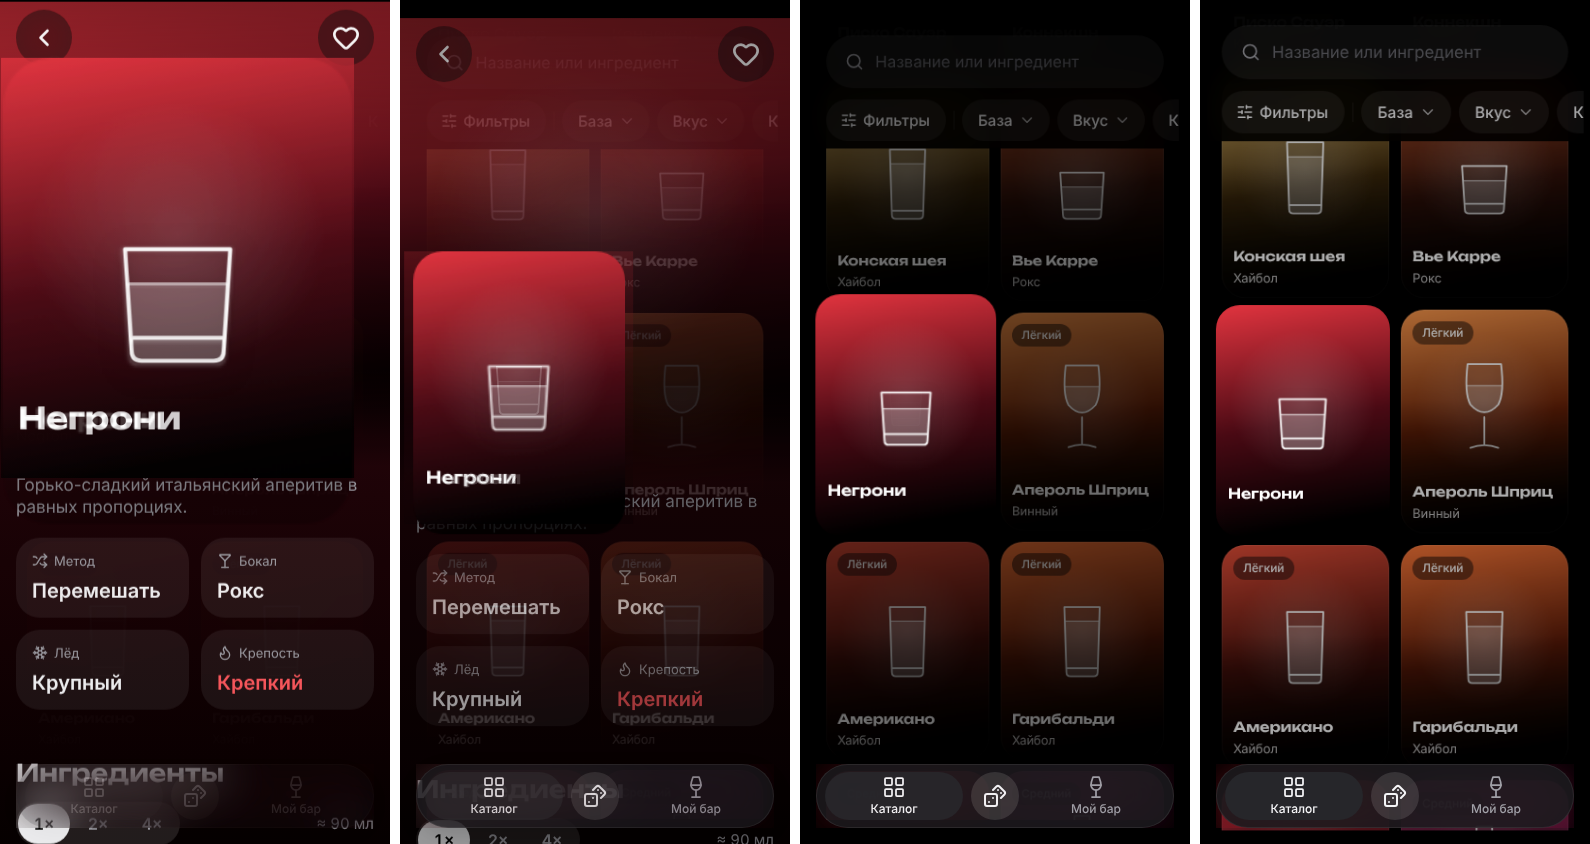
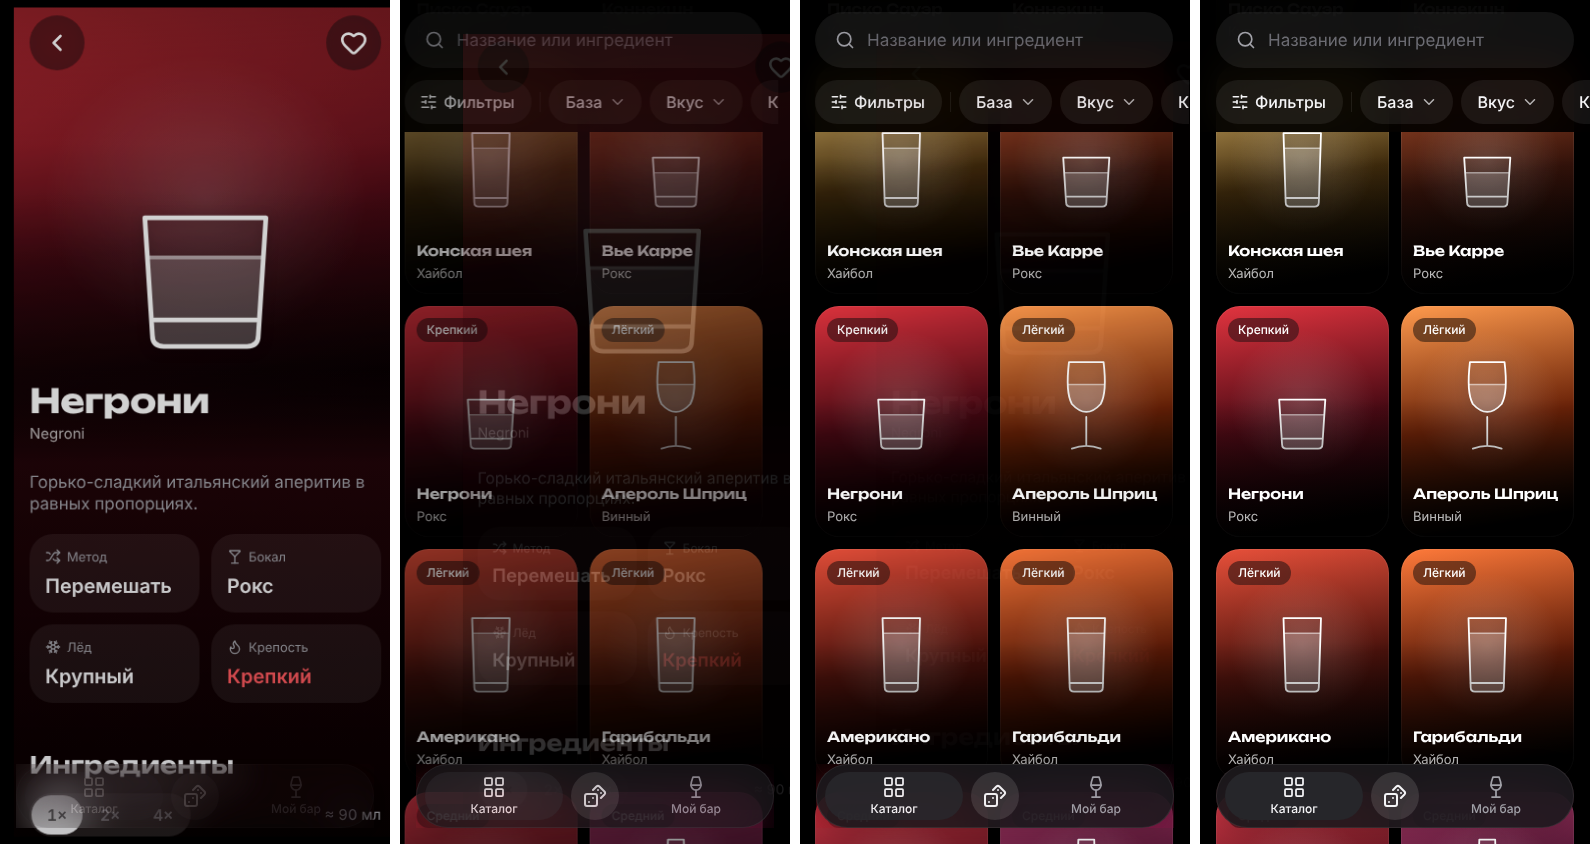
Карточка открывается обычным переходом вглубь, как все страницы
Claude-Session: https://claude.ai/code/session_01CTSLijoM8Di1TL7d1o52Nz

diff --git a/src/components/ui/CocktailCard.tsx b/src/components/ui/CocktailCard.tsx
@@ -1,12 +1,10 @@
 import type { CSSProperties } from 'react';
-import { Link, useViewTransitionState } from 'react-router';
+import { Link } from 'react-router';
 import { Heart } from 'lucide-react';
 import type { Cocktail } from '../../types/cocktail';
 import { glassLabel, strengthLabel } from '../../lib/cocktails';
 import { cn } from '../../lib/cn';
 import { GlassIllustration } from './GlassIllustration';
-import { useIsGhost } from '../SwipeBack';
-import { setNav } from '../../lib/motion';
 
 export function coverStyle(cocktail: Pick<Cocktail, 'cover'>): CSSProperties {
   return { '--cover-from': cocktail.cover.from, '--cover-to': cocktail.cover.to } as CSSProperties;
@@ -33,28 +31,19 @@ type Props = {
 /** Карточка каталога 3:4: градиент напитка, силуэт бокала, плашка крепости (словом), название и бокал поверх скрима */
 export function CocktailCard({ cocktail, pressed, className, available, favorite, compact, large, replace, tabIndex }: Props) {
   const to = `/cocktail/${cocktail.id}`;
-  // общий элемент: эта карточка вырастает в обложку рецепта (и садится обратно) — имя только на время перехода к ней;
-  // из шторки «Мне повезёт» (replace) — без перехода: та же карточка может быть и в сетке под шторкой
-  const transitioning = useViewTransitionState(to);
-  const ghost = useIsGhost();
-  const shared = transitioning && !replace && !ghost;
-  // «раскрытие»: фон, бокал и название летят каждый сам по себе — без растянутых плашек и текста
-  const vt = (name: string) => (shared ? { viewTransitionName: name } : undefined);
+  // обычный переход вглубь, как у всех страниц; из шторки «Мне повезёт» (replace) — без перехода
   return (
     <Link
       to={to}
       viewTransition={!replace}
-      onClick={replace ? undefined : () => setNav('expand')}
       replace={replace}
       tabIndex={tabIndex}
       data-pressed={pressed || undefined}
       className={cn('vt-card pressable-scale cover-gradient block aspect-card overflow-hidden rounded-tile outline-1 -outline-offset-1 outline-border', className)}
-      style={{ ...coverStyle(cocktail), ...(shared ? {} : { '--vt': `card-${cocktail.id}` }) } as CSSProperties}
+      style={{ ...coverStyle(cocktail), '--vt': `card-${cocktail.id}` } as CSSProperties}
     >
-      {/* фон для «раскрытия» — только градиент, без плашки и подписей */}
-      {shared && <span className="cover-gradient absolute inset-0 rounded-[inherit]" style={vt('cover')} aria-hidden />}
       {/* compact (лента 140): бокал ниже ростом — двухстрочное название не наезжает */}
-      <GlassIllustration shape={cocktail.glass} style={vt('cover-glass')} className={cn('absolute inset-x-0 mx-auto', compact ? 'top-5 h-2/5' : 'top-9 h-1/2')} />
+      <GlassIllustration shape={cocktail.glass} className={cn('absolute inset-x-0 mx-auto', compact ? 'top-5 h-2/5' : 'top-9 h-1/2')} />
       <span className="scrim-bottom absolute inset-0" aria-hidden />
       {/* крепость — словом, как в фильтре «Крепость»; бокал — под названием */}
       {!compact && (
@@ -72,7 +61,7 @@ export function CocktailCard({ cocktail, pressed, className, available, favorite
       )}
       <span className={cn('absolute', large ? 'inset-x-5 bottom-5' : 'inset-x-3 bottom-3')}>
         {/* Unbounded 14 (`text-card`): название не спорит с обложкой; длинное слово — перенос, а не обрезка */}
-        <span style={vt('cover-title')} className={cn('line-clamp-2 block font-display wrap-break-word hyphens-auto text-on-media', large ? 'text-section' : 'text-card')}>{cocktail.name}</span>
+        <span className={cn('line-clamp-2 block font-display wrap-break-word hyphens-auto text-on-media', large ? 'text-section' : 'text-card')}>{cocktail.name}</span>
         {/* «можно приготовить» — статусом в строке бокала (язык v2: информер, не значок) */}
         <span className={cn('mt-1 block truncate text-on-media-2', large ? 'text-subhead' : 'text-footnote')}>
           {glassLabel(cocktail.glass)}

diff --git a/src/styles/index.css b/src/styles/index.css
@@ -424,8 +424,6 @@ html[data-platform='android'] {
   --ease-sheet-out: cubic-bezier(0.3, 0, 0.8, 0.15);
   --dur-toast-out: 160ms;
   --dur-grid: 250ms;
-  --dur-shared: 450ms;
-  --ease-expand: cubic-bezier(0.32, 0.72, 0, 1);
 }
 html[data-platform='ios'] {
   --dur-push: 400ms;
@@ -437,8 +435,6 @@ html[data-platform='ios'] {
   --ease-sheet-out: cubic-bezier(0.32, 0, 0.67, 0);
   --dur-toast-out: 160ms;
   --dur-grid: 300ms;
-  --dur-shared: 500ms;
-  --ease-expand: cubic-bezier(0.32, 0.72, 0, 1);
 }
 
 /* корень и «резина»: навбар и таб-бар не отрываются при оттягивании; на Android — без pull-to-refresh */
@@ -572,71 +568,6 @@ html[data-nav='grid'] .vt-card {
 }
 html[data-nav='grid']::view-transition-group(*) {
   animation-duration: var(--dur-grid);
-}
-
-/* --- карточка ↔ рецепт («раскрытие», как App Store): каталог отступает вглубь и темнеет, фон обложки,
-   бокал и название летят каждый сам по себе (без растянутых плашек и текста), остальной рецепт проявляется снизу.
-   Назад — то же в обратную сторону. Одинаково на iOS и Android. --- */
-@keyframes recede {
-  to {
-    transform: scale(0.94);
-    opacity: 0.4;
-  }
-}
-@keyframes rise-in {
-  0%,
-  30% {
-    opacity: 0;
-    transform: translateY(48px);
-  }
-}
-@keyframes sink-out {
-  to {
-    opacity: 0;
-    transform: translateY(48px);
-  }
-}
-html[data-nav='expand']::view-transition-old(root) {
-  animation: recede var(--dur-shared) var(--ease-expand) both;
-}
-html[data-nav='expand']::view-transition-new(root) {
-  animation: rise-in var(--dur-shared) var(--ease-expand) both;
-}
-html[data-nav='collapse']::view-transition-old(root) {
-  animation: sink-out calc(var(--dur-shared) * 0.5) ease-in both;
-  z-index: 1;
-}
-html[data-nav='collapse']::view-transition-new(root) {
-  animation: recede var(--dur-shared) var(--ease-expand) reverse both;
-}
-::view-transition-group(cover),
-::view-transition-group(cover-glass),
-::view-transition-group(cover-title) {
-  animation-duration: var(--dur-shared);
-  animation-timing-function: var(--ease-expand);
-  z-index: 2;
-}
-/* фон: градиенты одного напитка — быстрая смена картинки незаметна, движение несёт рамка */
-::view-transition-old(cover),
-::view-transition-new(cover) {
-  height: 100%;
-  object-fit: cover;
-  object-position: top;
-  animation-duration: calc(var(--dur-shared) * 0.35);
-  animation-timing-function: linear;
-}
-/* бокал — один и тот же силуэт: вписываем, не растягиваем */
-::view-transition-old(cover-glass),
-::view-transition-new(cover-glass) {
-  height: 100%;
-  object-fit: contain;
-}
-/* название: Unbounded растёт от 14 до 40 — у левого нижнего края */
-::view-transition-old(cover-title),
-::view-transition-new(cover-title) {
-  height: 100%;
-  object-fit: contain;
-  object-position: left bottom;
 }
 
 /* --- таб-бар стоит на месте при смене вкладок --- */

diff --git a/src/components/ui/CocktailHero.tsx b/src/components/ui/CocktailHero.tsx
@@ -1,6 +1,5 @@
 import type { ReactNode, RefObject } from 'react';
 import { ChevronLeft } from 'lucide-react';
-import { useViewTransitionState } from 'react-router';
 import type { Cocktail } from '../../types/cocktail';
 import { cn } from '../../lib/cn';
 import { IconButton } from './Button';
@@ -25,19 +24,11 @@ type Props = {
  * Колонка: бокал занимает всё место над названием — длинное название уменьшает бокал, а не наезжает на него.
  */
 export function CocktailHero({ cocktail, onBack, action, titleRef, height = 'screen', glassMuted }: Props) {
-  // общий элемент с карточкой: только в переходе со страниц, где есть карточки (каталог, «Мой бар»)
-  const fromCatalog = useViewTransitionState('/');
-  const fromBar = useViewTransitionState('/bar');
-  const shared = height === 'screen' && (fromCatalog || fromBar);
-  // пары к карточке: фон, бокал, название (CocktailCard)
-  const vt = (name: string) => (shared ? { viewTransitionName: name } : undefined);
   return (
     <header
       className={cn('cover-gradient relative flex flex-col overflow-hidden', height === 'screen' ? 'h-hero pt-safe' : 'h-80 pt-3')}
       style={coverStyle(cocktail)}
     >
-      {/* пара к фону карточки — чистый градиент */}
-      {shared && <span className="cover-gradient absolute inset-0" style={vt('cover')} aria-hidden />}
       <span className="scrim-top absolute inset-0" aria-hidden />
       <span className="scrim-bottom absolute inset-0" aria-hidden />
       {/* низ обложки растворяется в тинт напитка — тело страницы продолжает градиент */}
@@ -45,7 +36,7 @@ export function CocktailHero({ cocktail, onBack, action, titleRef, height = 'scr
 
       {/* под кнопкой «Назад» (44) — отступ 48, бокал вписывается в оставшуюся высоту */}
       <div className="relative mt-12 mb-3 min-h-0 flex-1">
-        <GlassIllustration shape={cocktail.glass} style={vt('cover-glass')} className={cn('absolute inset-0 size-full', glassMuted && 'opacity-30')} />
+        <GlassIllustration shape={cocktail.glass} className={cn('absolute inset-0 size-full', glassMuted && 'opacity-30')} />
       </div>
 
       {onBack && (
@@ -56,7 +47,7 @@ export function CocktailHero({ cocktail, onBack, action, titleRef, height = 'scr
       {action && <div className={cn('absolute right-4', height === 'screen' ? 'top-safe' : 'top-3')}>{action}</div>}
 
       <div className="relative px-4 pb-5">
-        <h1 ref={titleRef} style={vt('cover-title')} className="line-clamp-2 font-display text-display text-balance text-on-media">{cocktail.name}</h1>
+        <h1 ref={titleRef} className="line-clamp-2 font-display text-display text-balance text-on-media">{cocktail.name}</h1>
         <p className="mt-1 text-subhead text-on-media-2">{cocktail.custom ? 'Авторский коктейль' : cocktail.nameEn}</p>
       </div>
     </header>

diff --git a/src/pages/DesignSystemPage.tsx b/src/pages/DesignSystemPage.tsx
@@ -78,7 +78,7 @@ function State({ label, children, className, inset }: { label: string; children:
 
 // --- движение: переключатель платформы, живые шторка / тост / переход, токены ---
 
-const MOTION_TOKENS = ['--dur-push', '--ease-push', '--dur-tab', '--dur-sheet-in', '--ease-sheet-in', '--dur-sheet-out', '--ease-sheet-out', '--dur-shared', '--dur-grid'];
+const MOTION_TOKENS = ['--dur-push', '--ease-push', '--dur-tab', '--dur-sheet-in', '--ease-sheet-in', '--dur-sheet-out', '--ease-sheet-out', '--dur-grid'];
 
 function MotionShowcase() {
   const [platform, setPlatform] = useState<Platform | 'auto'>(() => platformOverride() ?? 'auto');
@@ -935,7 +935,7 @@ export function DesignSystemPage() {
         </div>
       </Section>
 
-      <Section id="motion" title="Движение" note="Язык платформы — html[data-platform]: iOS (UIKit) — push справа 100%, старая страница на 30% и темнеет, 400 мс cubic-bezier(.32,.72,0,1), свайп назад от края (standalone); Android (Material 3) — shared axis X ±30 px + fade, «назад» — страница сжимается и уходит, 300 мс emphasized. Обложка карточки вырастает в обложку рецепта. Шторки и тосты уходят анимацией; сетка каталога перестраивается. reduced-motion — только fade. Переходы страниц — View Transitions (Safari 18+, Chrome 111+); без них — мгновенно.">
+      <Section id="motion" title="Движение" note="Язык платформы — html[data-platform]: iOS (UIKit) — push справа 100%, старая страница на 30% и темнеет, 400 мс cubic-bezier(.32,.72,0,1), свайп назад от края (standalone); Android (Material 3) — shared axis X ±30 px + fade, «назад» — страница сжимается и уходит, 300 мс emphasized. Шторки и тосты уходят анимацией; сетка каталога перестраивается. reduced-motion — только fade. Переходы страниц — View Transitions (Safari 18+, Chrome 111+); без них — мгновенно.">
         <MotionShowcase />
       </Section>
 

diff --git a/src/lib/motion.ts b/src/lib/motion.ts
@@ -5,7 +5,7 @@
 //   data-nav = forward | back | tab | grid | none — что за переход сейчас.
 
 export type Platform = 'ios' | 'android';
-export type NavKind = 'forward' | 'back' | 'tab' | 'grid' | 'none' | 'expand' | 'collapse';
+export type NavKind = 'forward' | 'back' | 'tab' | 'grid' | 'none';
 
 const OVERRIDE_KEY = 'bar-motion-platform';
 
@@ -68,8 +68,6 @@ export const skipNextBack = () => (skipPop = true);
 const BASE = import.meta.env.BASE_URL.replace(/\/$/, '');
 const TAB_ROOTS = new Set(['/', '/bar']);
 /** Обе страницы — корни вкладок: переход между ними — «вкладка», а не вглубь */
-const isRecipe = (p: string) => /^\/cocktail\/[^/]+$/.test(p.slice(BASE.length));
-const isTabRoot = (p: string) => TAB_ROOTS.has(p.slice(BASE.length) || '/');
 const isTabSwitch = (from: string, to: string) => from !== to && TAB_ROOTS.has(from.slice(BASE.length) || '/') && TAB_ROOTS.has(to.slice(BASE.length) || '/');
 
 /**
@@ -88,8 +86,7 @@ export function initMotion() {
       path = to;
       return;
     }
-    // рецепт → каталог / «Мой бар»: обложка садится обратно в карточку
-    setNav(to === path ? 'none' : isTabSwitch(path, to) ? 'tab' : isRecipe(path) && isTabRoot(to) ? 'collapse' : 'back');
+    setNav(to === path ? 'none' : isTabSwitch(path, to) ? 'tab' : 'back');
     path = location.pathname;
   });
   // переходы вперёд: роутер пишет историю до старта перехода — между вкладками ставим «вкладку» (Каталог ↔ Мой бар, ссылки в карточках)

diff --git a/src/components/ui/GlassIllustration.tsx b/src/components/ui/GlassIllustration.tsx
@@ -1,4 +1,3 @@
-import type { CSSProperties } from 'react';
 import { useId } from 'react';
 import type { Glass } from '../../types/cocktail';
 import { cn } from '../../lib/cn';
@@ -76,17 +75,16 @@ const GEOMETRY: Record<Glass, GlassGeometry> = {
   },
 };
 
-type Props = { shape: Glass; className?: string; title?: string; style?: CSSProperties };
+type Props = { shape: Glass; className?: string; title?: string };
 
 /** Силуэт бокала: белые линии + полупрозрачный напиток. Рисуется поверх cover-gradient. */
-export function GlassIllustration({ shape, className, title, style }: Props) {
+export function GlassIllustration({ shape, className, title }: Props) {
   const clip = useId();
   const g = GEOMETRY[shape];
   return (
     <svg
       viewBox="0 0 120 160"
       className={cn('glass-illustration text-on-media', className)}
-      style={style}
       role={title ? 'img' : undefined}
       aria-label={title}
       aria-hidden={title ? undefined : true}

diff --git a/plan.md b/plan.md
@@ -14,8 +14,7 @@
 
 ## Сценарий
 
-1. Каталог → тап по карточке: обложка карточки **вырастает** в обложку рецепта (общий элемент), остальное
-   досоздаётся вокруг. Назад — обложка садится обратно в свою карточку.
+1. ~~Каталог → тап по карточке: обложка вырастает в обложку рецепта~~ — отменено (18c): карточка открывается обычным переходом вглубь.
 2. Рецепт → свайп от левого края (iPhone): страница едет за пальцем, под ней виден приглушённый каталог;
    отпустил дальше трети или быстро — уходит, иначе возвращается. На Android — системный жест «назад» с
    предиктивной анимацией (страница уменьшается и уезжает).
